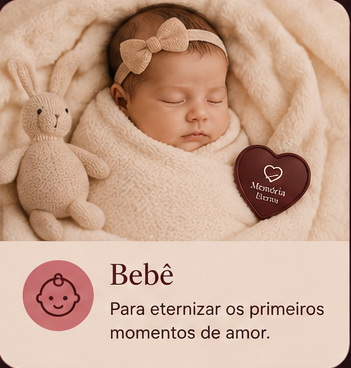
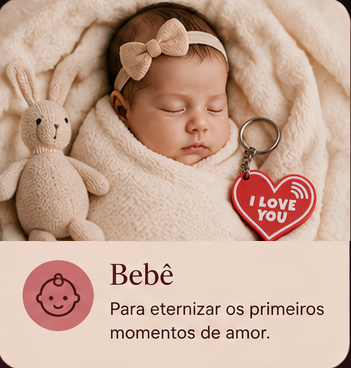
feat: corrige o chaveiro fake nas fotos de modelos por nicho
As 7 fotos de "Modelos para cada ocasião" mostravam um coração
genérico com "Memória Eterna" escrito — nada a ver com o produto real
(chaveiro vermelho "I LOVE YOU" com ícone de NFC). Editei cada foto
trocando só o pendente pelo produto real, preservando pessoas, pose e
o painel de texto original pixel a pixel, com resultado bem mais
fotorrealista que a versão anterior (menos "cara de IA").

Também removi a imagem estática duplicada dessa seção (mostrava os
mesmos 7 nichos numa captura só, sem interação) — a grade ao vivo
abaixo já cobria o mesmo conteúdo, agora com um H2 visível no lugar.

Trocado para <img> puro (em vez de next/image) nesses cards: o
otimizador de imagem do `next dev` ficou servindo versão antiga em
cache mesmo após o arquivo mudar no disco.

diff --git a/src/app/(marketing)/page.tsx b/src/app/(marketing)/page.tsx
@@ -276,18 +276,11 @@ const NICHE_DESCRIPTIONS: Record<string, string> = {
 function TemplatesSection() {
   return (
     <section className="mx-auto max-w-6xl px-4 py-20 sm:px-6">
-      <h2 className="sr-only">Modelos para cada ocasião</h2>
       <BlurFade>
-        <div className="mx-auto max-w-3xl overflow-hidden rounded-3xl border border-border shadow-sm">
-          <Image
-            src="/marketing/modelos-para-cada-ocasiao.png"
-            alt="Modelos para cada ocasião: escolha um estilo e personalize com fotos, mensagens e música."
-            width={1536}
-            height={1024}
-            className="h-auto w-full"
-            sizes="(min-width: 768px) 768px, 100vw"
-          />
-        </div>
+        <h2 className="text-center font-serif text-3xl md:text-4xl">Modelos para cada ocasião</h2>
+        <p className="mt-3 text-center text-muted-foreground">
+          Escolha o tema que mais combina com a sua história.
+        </p>
       </BlurFade>
       <div className="mt-12 grid gap-4 sm:grid-cols-2 lg:grid-cols-4">
         {NICHES.map((niche, i) => (
@@ -296,13 +289,11 @@ function TemplatesSection() {
               href={`/modelos?nicho=${niche}`}
               className="group block h-full overflow-hidden rounded-3xl border border-border bg-card transition-all duration-200 hover:-translate-y-1 hover:border-primary/40 hover:shadow-md"
             >
-              <Image
+              {/* eslint-disable-next-line @next/next/no-img-element */}
+              <img
                 src={`/marketing/niches/${niche}.png`}
                 alt={`${NICHE_LABELS[niche]} — ${NICHE_DESCRIPTIONS[niche]}`}
-                width={356}
-                height={388}
                 className="aspect-square w-full object-cover transition-transform duration-300 group-hover:scale-105"
-                sizes="(min-width: 1024px) 25vw, (min-width: 640px) 50vw, 100vw"
               />
             </Link>
           </BlurFade>
